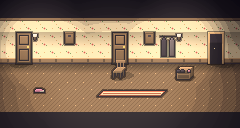
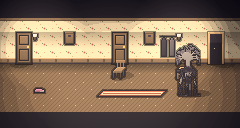
Add map-size chaser sprites (24x52) and place in corridor/living-room dream maps

Changed region(s): [[0.7292, 0.3125, 0.875, 0.7812]]

diff --git a/tools/gen_t11.py b/tools/gen_t11.py
@@ -212,6 +212,25 @@ def figure(seed, phase=None):
         c.g = c.g[1:] + [['.'] * 48]
     return c
 
+def downscale(rows, f=2):
+    """문자 격자를 1/f 로 줄인다. 밝은 가지(l)는 한 점만 있어도 살리고, 마지막에 윤곽선(k)을 다시 두른다."""
+    H, W = len(rows), len(rows[0]); h, w = H // f, W // f; out = []
+    for by in range(h):
+        line = []
+        for bx in range(w):
+            cells = [rows[by * f + j][bx * f + i] for j in range(f) for i in range(f)]
+            solid = [ch for ch in cells if ch not in '.k']
+            if 'l' in solid: line.append('l')
+            elif len(solid) >= 2 or (solid and cells.count('k') == 0): line.append(max(set(solid), key=solid.count))
+            elif cells.count('k') >= 2: line.append('k')
+            else: line.append('.')
+        out.append(line)
+    res = [r[:] for r in out]
+    for y in range(h):
+        for x in range(w):
+            if out[y][x] == '.' and any(0 <= y + dy < h and 0 <= x + dx < w and out[y + dy][x + dx] not in '.k' for dy, dx in ((1, 0), (-1, 0), (0, 1), (0, -1))): res[y][x] = 'k'
+    return [''.join(r) for r in res]
+
 def export_final(seed=12):
     """확정안(2번, 시드 12): 정지 1장 + 걷기 4장을 art/objects.txt 에 넣는다."""
     import re
@@ -220,6 +239,9 @@ def export_final(seed=12):
     blocks = []
     for name, ph, desc in frames:
         blocks.append(f'[{name}] {desc}\n' + '\n'.join(''.join(r) for r in figure(seed, ph).finish()) + '\n')
+    for name, ph, desc in frames:                                      # 게임 크기(1/2, 24x52): 맵에 놓는 용
+        small = downscale(figure(seed, ph).finish(), 2)
+        blocks.append(f'[{name.replace("shadow_tree", "chaser")}] {desc.split(" | ")[0]} (맵 크기 24x52) | dream\n' + '\n'.join(small) + '\n')
     smear = ['.' * 40, '.' * 40]
     r = random.Random(7); row1 = ''.join('d' if (i % 7 < 5 and i > 3) else ('m' if i % 7 < 6 and i > 1 else '.') for i in range(40)); row2 = ''.join('k' if (i % 5 < 3 and r.random() < .8) else '.' for i in range(40))
     row0 = ''.join('m' if (i % 9 == 0 and 4 < i < 36) else '.' for i in range(40))
@@ -227,7 +249,7 @@ def export_final(seed=12):
     path = os.path.join(root, 'objects.txt'); txt = open(path, encoding='utf-8').read()
     keep, skip = [], False
     for line in txt.split('\n'):                                      # 기존 shadow_tree* 블록을 헤더부터 다음 헤더 전까지 지운다
-        if line.startswith('['): skip = line.startswith('[shadow_tree') or line.startswith('[drag_smear')
+        if line.startswith('['): skip = line.startswith('[shadow_tree') or line.startswith('[drag_smear') or line.startswith('[chaser')
         if not skip: keep.append(line)
     txt = '\n'.join(keep).rstrip('\n') + '\n\n' + '\n'.join(blocks)
     open(path, 'w', encoding='utf-8').write(txt)
